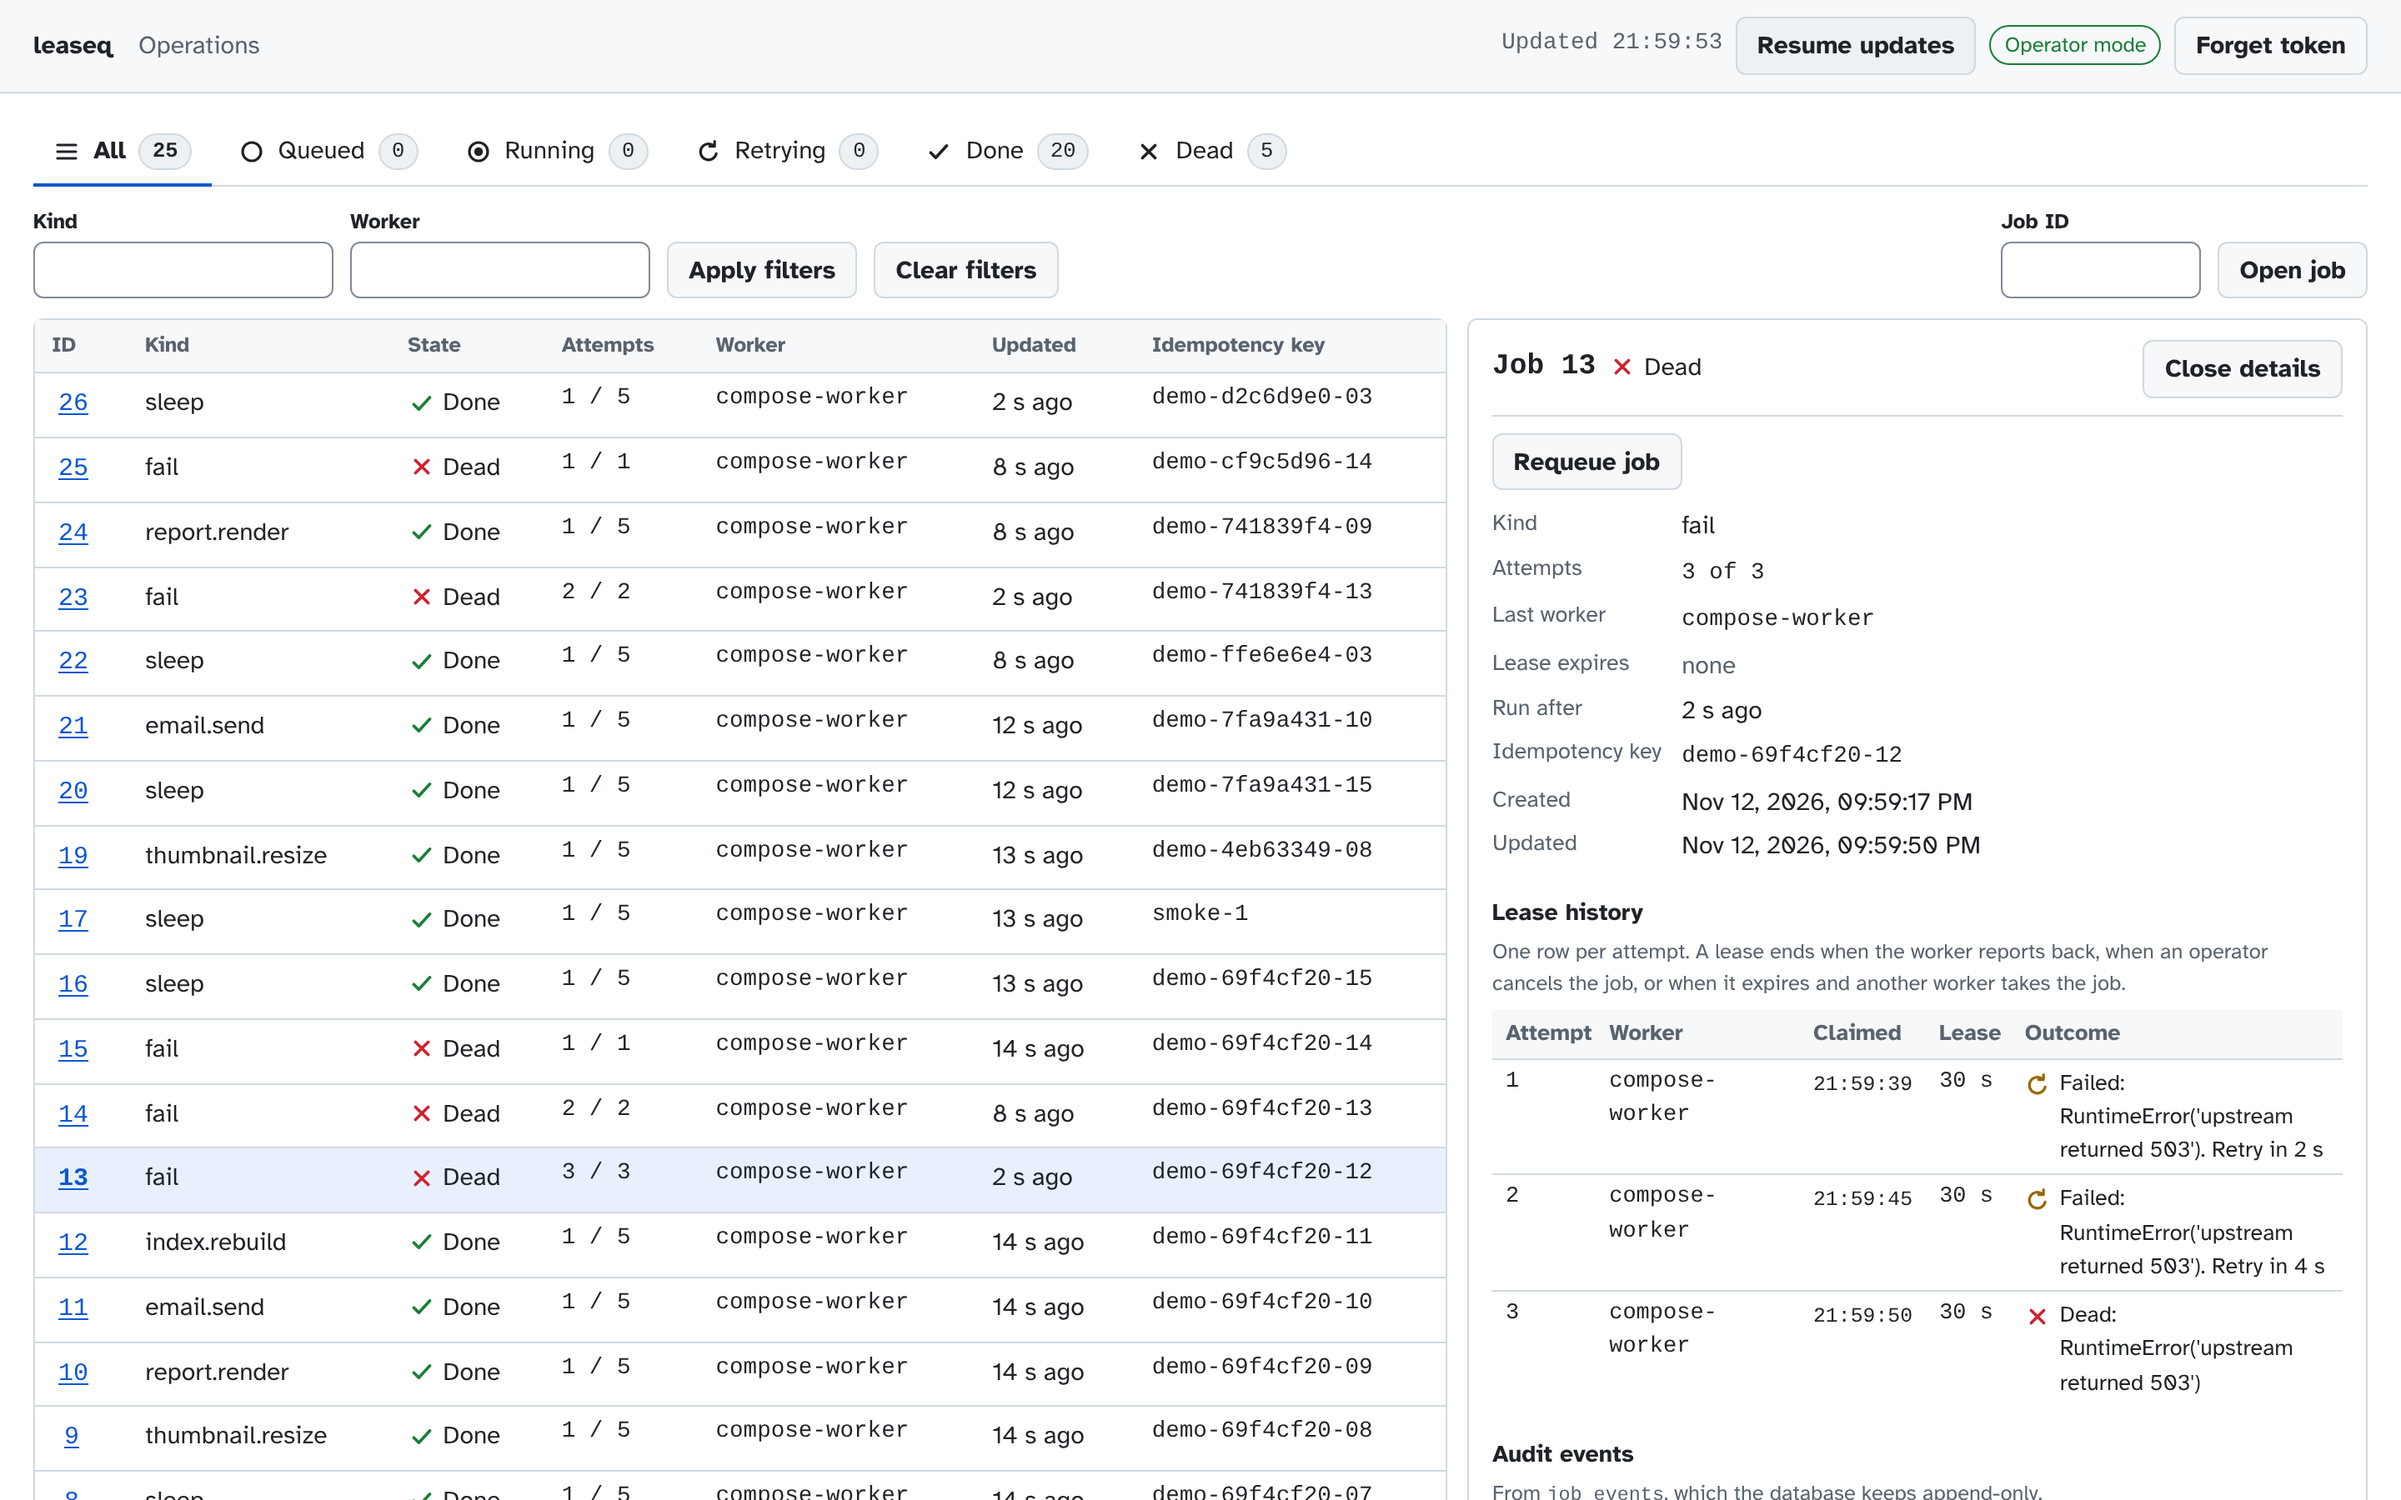
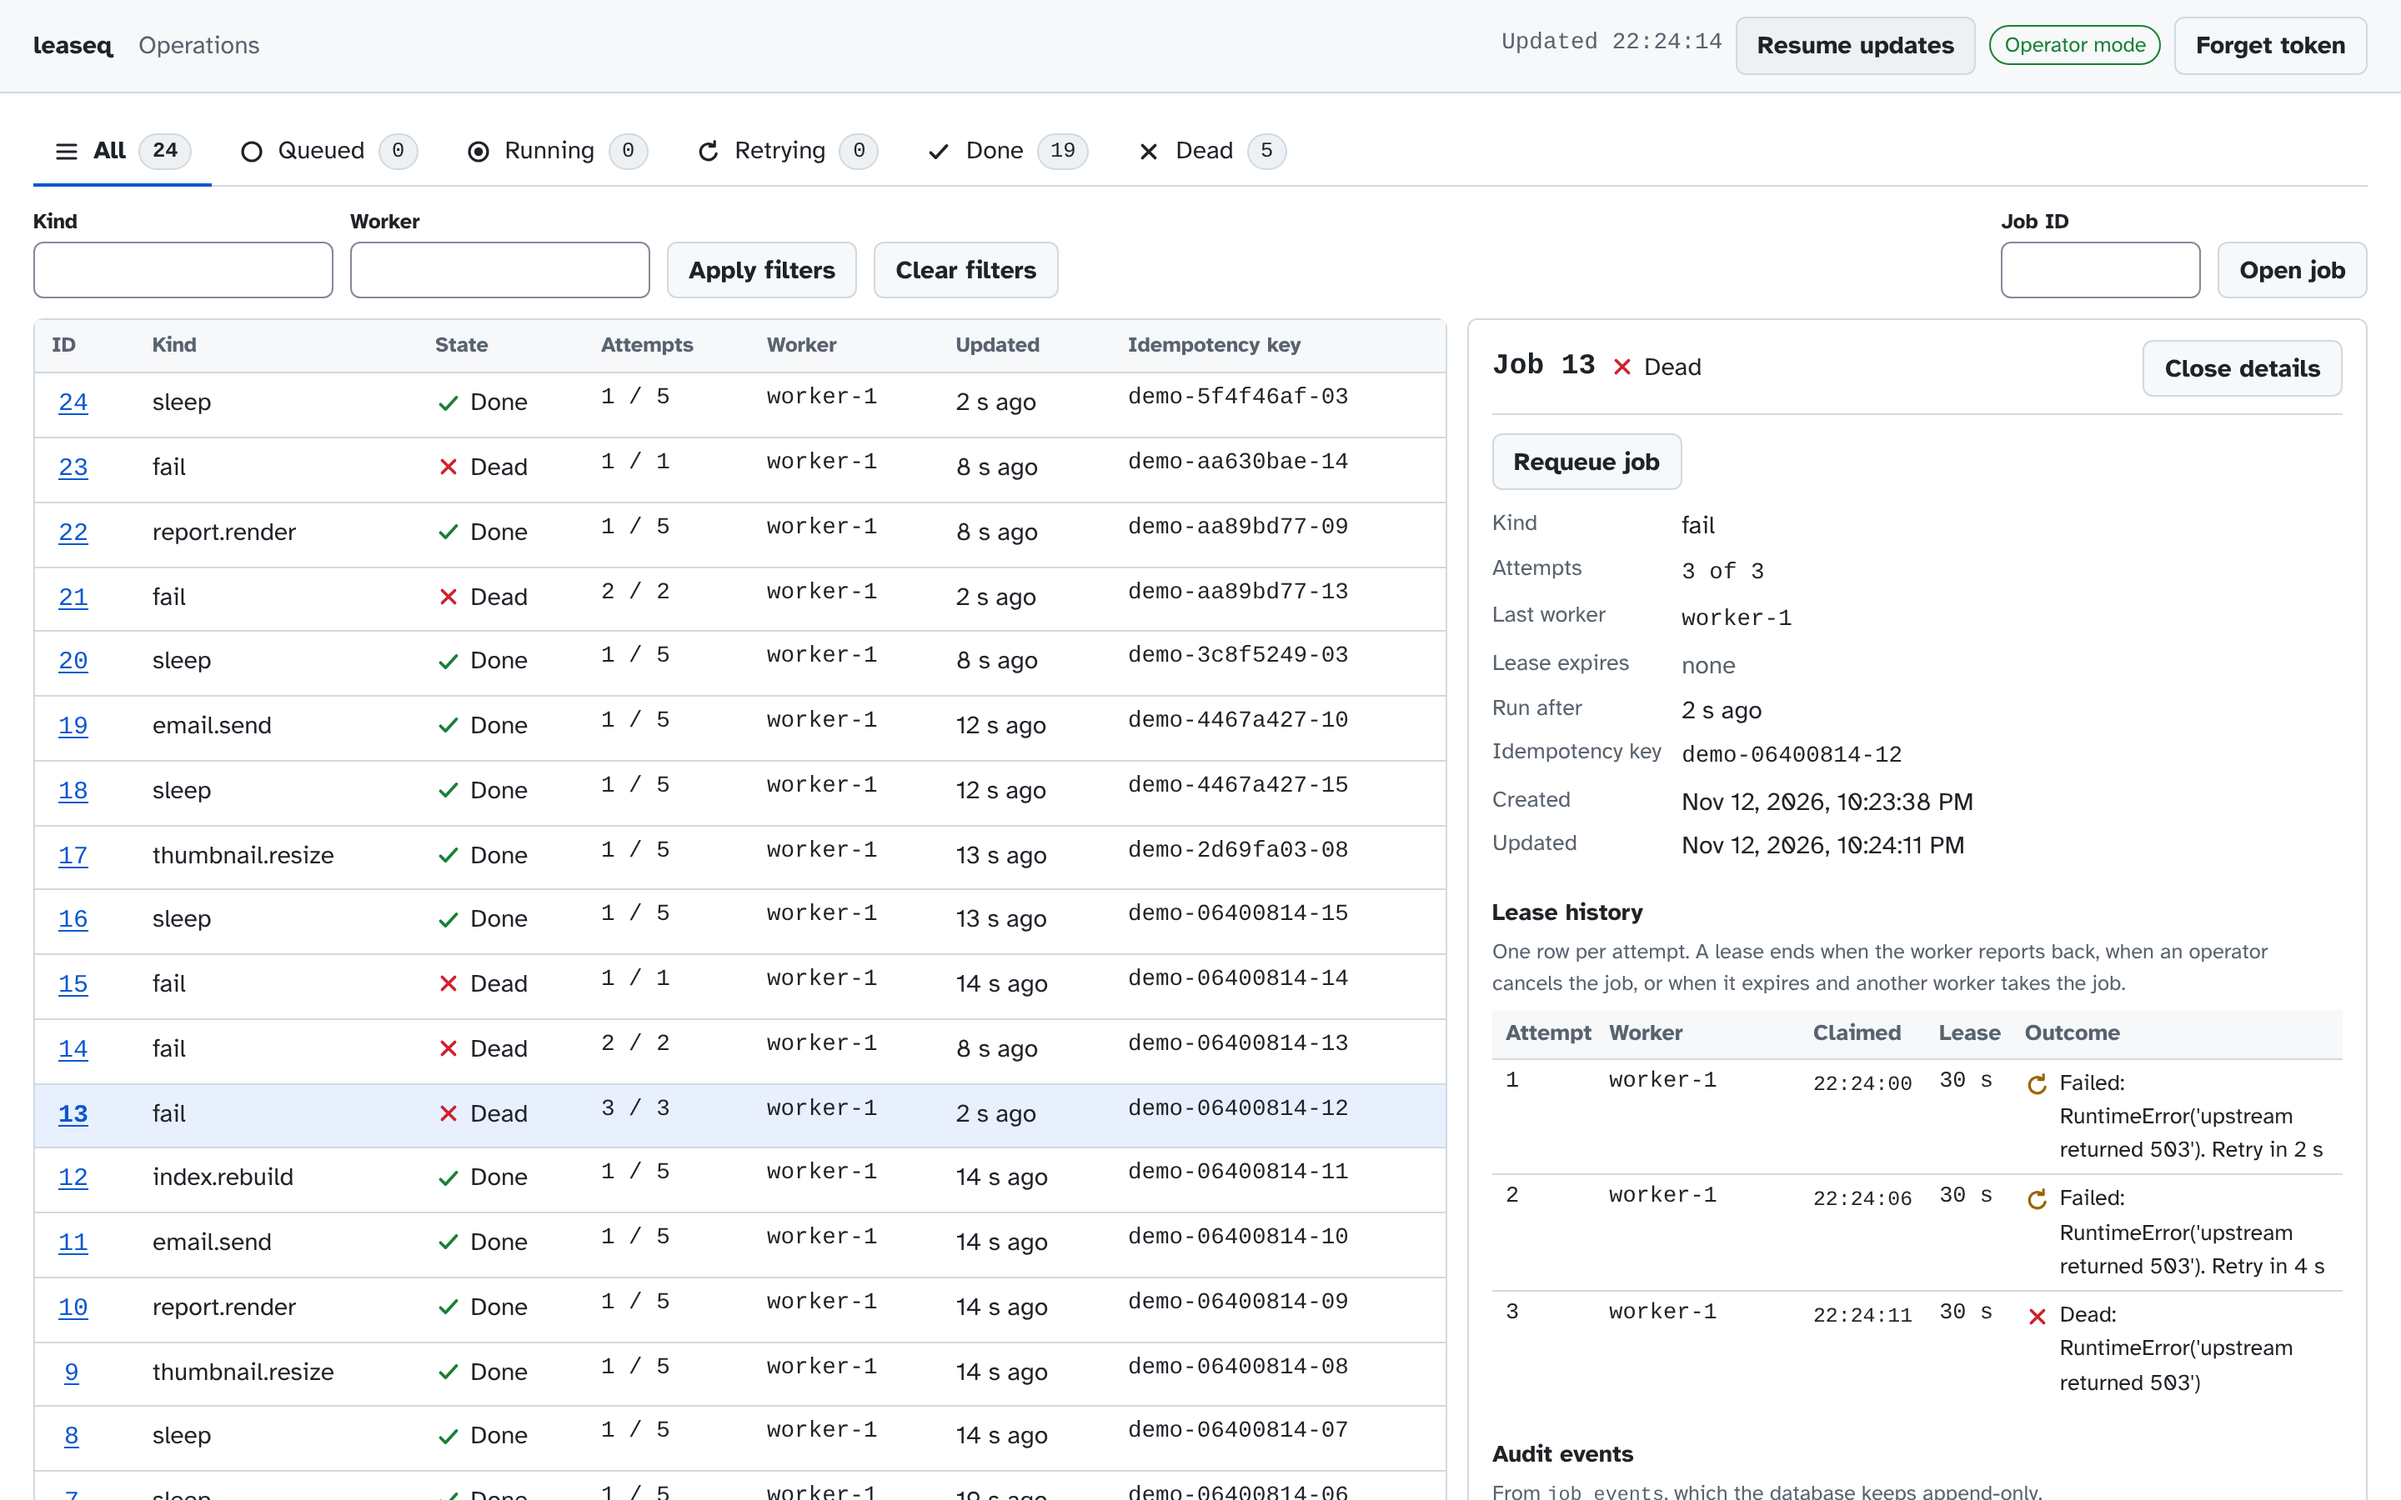
Address review: honest screenshot, segment-exact open paths, unknown counts
- Retake docs/screenshots/dashboard.png from local processes with worker
  id worker-1 and demo keys only; the caption says it is not Docker.
- security.access matches open prefixes by whole path segment, so
  /jobsadmin or /dashboardx are never opened by LEASEQ_PUBLIC_READ or the
  dashboard rule; test with five look-alike paths.
- Without a token the state tabs show an en dash, not 0, and the table is
  cleared; the footer says reads need the token unless public reads are on.
  The live browser test checks this.
- Cancel wording: a late result is refused and logged as rejected.
- README: exact line counts; demo-scale limits of the dashboard (count(*)
  every 2 s, up to 500 events per open job, 200-row table, token lost on
  reload).

Claude-Session: https://claude.ai/code/session_01SBDy3AAAGa7xAC8BzFcKKn

diff --git a/leaseq/dashboard/assets/app.js b/leaseq/dashboard/assets/app.js
@@ -202,7 +202,7 @@ function buildTabs() {
     const b = el("button", { type: "button", role: "tab", class: "tab", id: `tab-${t.id || "all"}`,
                              "aria-controls": "jobs-panel", "data-state": t.id },
                  icon(t.id || "all"), el("span", { text: t.label }),
-                 el("span", { class: "count", "data-count": t.id || "all", text: "0" }));
+                 el("span", { class: "count", "data-count": t.id || "all", text: NO_COUNT }));
     b.addEventListener("click", () => selectTab(t.id, false));
     list.append(b);
   }
@@ -220,6 +220,14 @@ function buildTabs() {
       selectTab(next.dataset.state, true);
     }
   });
+}
+
+// Shown instead of a number until the server has answered with counts
+// (for example while it is waiting for the token), so "0" is never a guess.
+const NO_COUNT = "\u2013";
+
+function clearCounts() {
+  for (const c of document.querySelectorAll("[data-count]")) c.textContent = NO_COUNT;
 }
 
 function renderTabs(counts) {
@@ -470,7 +478,7 @@ function confirmAction(kind, job, trigger) {
     $("confirm-title").textContent = `Cancel job ${job.id}?`;
     $("confirm-text").textContent = job.state === "leased"
       ? `It becomes dead now. Worker ${job.leased_by} is still running it; when it reports back ` +
-        `its lease token is refused and nothing is recorded.`
+        `its result is refused (logged as rejected).`
       : "It becomes dead and will not be run.";
     yes.textContent = "Cancel job";
     yes.className = "btn primary";
@@ -633,6 +641,9 @@ async function refresh() {
     if (r.status === 401) {
       showBanner("This server requires the API token to read jobs.", true);
       $("updated").textContent = "Token needed";
+      clearCounts();
+      $("rows").replaceChildren();
+      $("shown").textContent = "";
       return;
     }
     if (r.status !== 200) {

diff --git a/tests/e2e/readme_screenshot.js b/tests/e2e/readme_screenshot.js
@@ -20,7 +20,7 @@ const { chromium } = require("playwright");
     await page.getByRole("button", { name: "Use token" }).click();
     await page.locator("#operator-label").waitFor({ state: "visible" });
   }
-  await page.waitForFunction(() => document.querySelector('[data-count="all"]').textContent !== "0");
+  await page.waitForFunction(() => /^[1-9][0-9]*$/.test(document.querySelector('[data-count="all"]').textContent));
   if (process.env.JOB) await page.locator("#lease-rows tr").first().waitFor();
   await page.getByRole("button", { name: "Pause updates" }).click();   // freeze the frame
   await page.evaluate(() => document.activeElement.blur());

diff --git a/tests/e2e/live_flow.e2e.js b/tests/e2e/live_flow.e2e.js
@@ -53,6 +53,9 @@ async function enterTokenByKeyboard(page) {
     await page.goto(`${BASE}/dashboard/`);
     const banner = page.getByRole("alert");
     await banner.filter({ hasText: "requires the API token to read jobs" }).waitFor();
+    const noTokenCounts = await page.$$eval("[data-count]", (els) => els.map((e) => e.textContent));
+    assert.deepEqual(noTokenCounts, Array(6).fill("\u2013"));   // unknown, not "0"
+    assert.equal(await page.locator("#rows tr").count(), 0);
     report.axe["no-token"] = await axeViolations(page);
     step("reads without a token: 401, the page shows 'requires the API token'");
 

diff --git a/leaseq/dashboard/index.html b/leaseq/dashboard/index.html
@@ -111,8 +111,9 @@
 </main>
 
 <footer class="app-footer muted">
-  Read-only unless an API token is entered. The token is sent only in the
-  Authorization header and is never stored. Font: Atkinson Hyperlegible,
+  Job data needs the API token unless the server allows public reads; requeue and
+  cancel always need it. The token is sent only in the Authorization header and
+  kept in this page's memory, never stored. Font: Atkinson Hyperlegible,
   <a href="assets/OFL.txt">SIL Open Font License 1.1</a>.
   <a href="/docs">API reference</a>
 </footer>

diff --git a/tests/e2e/dashboard.e2e.js b/tests/e2e/dashboard.e2e.js
@@ -41,7 +41,7 @@ async function newPage(browser, opts = {}) {
 
 async function openDashboard(page, query = "") {
   await page.goto(`${BASE}/dashboard/${query}`);
-  await page.waitForFunction(() => document.querySelector('[data-count="all"]').textContent !== "0");
+  await page.waitForFunction(() => /^[1-9][0-9]*$/.test(document.querySelector('[data-count="all"]').textContent));
 }
 
 (async () => {

diff --git a/leaseq/security.py b/leaseq/security.py
@@ -59,16 +59,22 @@ def _bearer(headers: dict) -> str | None:
 # Paths that hold no job data and are served without a token. Everything else
 # is denied by default, so a route added later is protected unless listed here.
 OPEN_PATHS = {"/", "/healthz", "/dashboard", "/docs", "/docs/oauth2-redirect", "/openapi.json"}
-OPEN_PREFIXES = ("/dashboard/",)
+OPEN_PREFIXES = ("/dashboard",)
 # GET endpoints that LEASEQ_PUBLIC_READ=1 opens. /auth/check is not among them.
 PUBLIC_READ_PREFIXES = ("/stats", "/jobs")
 
 
+def _under(path: str, prefixes: tuple[str, ...]) -> bool:
+    """True for the prefix itself or a path below it: '/jobs' and '/jobs/1',
+    but not '/jobsadmin'."""
+    return any(path == p or path.startswith(p + "/") for p in prefixes)
+
+
 def access(method: str, path: str, public_read: bool) -> str:
     """-> 'open' or 'token' for a request."""
-    if path in OPEN_PATHS or path.startswith(OPEN_PREFIXES):
+    if path in OPEN_PATHS or _under(path, OPEN_PREFIXES):
         return "open"
-    if public_read and method in ("GET", "HEAD") and path.startswith(PUBLIC_READ_PREFIXES):
+    if public_read and method in ("GET", "HEAD") and _under(path, PUBLIC_READ_PREFIXES):
         return "open"
     return "token"
 
@@ -164,7 +170,7 @@ class SecurityHeaders:
     async def __call__(self, scope, receive, send):
         if scope["type"] != "http":
             return await self.app(scope, receive, send)
-        dashboard = scope["path"] == "/dashboard/" or scope["path"].startswith("/dashboard/")
+        dashboard = _under(scope["path"], ("/dashboard",))
 
         async def send_with_headers(message):
             if message["type"] == "http.response.start":

diff --git a/tests/test_security.py b/tests/test_security.py
@@ -94,6 +94,19 @@ def test_routes_are_protected_by_default(make_client):
     assert client.get("/not-a-route", headers=AUTH).status_code == 404
 
 
+@pytest.mark.parametrize("path", ["/jobsadmin", "/jobs.json", "/statsx", "/dashboardx",
+                                  "/dashboard-admin/x"])
+def test_open_prefixes_match_whole_path_segments(make_client, conn, path):
+    """Public read opens /jobs and /jobs/..., not a look-alike such as /jobsadmin."""
+    seed(conn)
+    client = make_client(public_read=True, auth=False)
+    assert client.get(path).status_code == 401, path
+    assert security.access("GET", path, True) == "token"
+    assert security.access("GET", "/jobs", True) == "open"
+    assert security.access("GET", "/jobs/1/events", True) == "open"
+    assert security.access("GET", "/dashboard", False) == "open"
+
+
 def test_unauthenticated_body_is_not_parsed(make_client, conn):
     """Auth runs before validation: no token means 401 even for a malformed body."""
     client = make_client(auth=False)

diff --git a/README.md b/README.md
@@ -8,15 +8,17 @@ work, and report the result with the lease token they were given. It exists to
 answer one question with evidence instead of a claim: if worker processes are
 killed at random while they hold jobs, is any job lost, and is any job's result
 recorded twice? The repository contains the queue, its HTTP API with bearer-token
-authentication, an operations dashboard served by the API (about 1,000 lines of
-Python, 83 of SQL and 980 of HTML/JavaScript/CSS in total), a fault-injection
+authentication, an operations dashboard served by the API (1,024 lines of
+Python, 83 of SQL, and 996 of HTML/JavaScript/CSS written for the dashboard,
+not counting the shared `ui.css` base stylesheet), a fault-injection
 test that kills workers with SIGKILL and then checks the database, and the
 measured results below.
 
 ![The leaseq dashboard: job table with state tabs, and the details of a job that failed twice, was retried with backoff and then went dead](docs/screenshots/dashboard.png)
 
-The screenshot shows real jobs from `python -m leaseq.demo` processed by one
-worker, taken with `tests/e2e/readme_screenshot.js`.
+The screenshot was taken from local processes, not Docker: one `uvicorn` API,
+one worker (`worker-1`) and `python -m leaseq.demo` against a local PostgreSQL,
+captured with `tests/e2e/readme_screenshot.js` after entering the token.
 
 ## Quick start
 
@@ -83,7 +85,7 @@ well. A missing or wrong token gets `401` with a JSON body and
 | `GET /jobs?state=&kind=&worker=&before_id=&limit=` | Newest first, at most 200 per page (default 50), without payloads; `next_before_id` pages back. Also returns counts, including `retrying` (queued jobs already attempted). |
 | `GET /jobs/{id}/events?after_id=&limit=` | The job's audit rows, oldest first, at most 500 per page. |
 | `POST /jobs/{id}/requeue` `{extra_attempts}` | Dead job back to `queued` with more attempts (default 3). `attempts` is kept; `max_attempts` is raised. 409 if the job is not dead. |
-| `POST /jobs/{id}/cancel` `{reason}` | Queued or leased job to `dead` and its lease token cleared, so a worker still running it gets 409 and records nothing. 409 otherwise. |
+| `POST /jobs/{id}/cancel` `{reason}` | Queued or leased job to `dead` and its lease token cleared, so a worker still running it gets 409: its result is refused (logged as `rejected`) and no effect is written. 409 otherwise. |
 | `GET /auth/check` | 200 if the token is right, 401 if not. |
 | `POST /demo/jobs` | Enqueues the 16 sample jobs that `python -m leaseq.demo` sends. |
 
@@ -325,8 +327,13 @@ repository, recommended in real use: adding the constraint as a second guard.
   next claim notices the expired lease; there is no background sweeper.
 - Benchmarks are from a 2-core shared container with client, API and database
   competing for the same cores.
-- The dashboard shows at most the newest 200 jobs per filter; older jobs are
-  reached with the filters or "Open job" by id.
+- The dashboard is built for demo-scale queues. Every 2 seconds it runs a
+  `count(*)` over all jobs and, with a job open, fetches up to 500 of that
+  job's events; on a large table those queries would need to be cheaper (for
+  example a maintained counter). The job table shows at most the newest 200
+  jobs per filter; older jobs are reached with the filters or "Open job" by id.
+  The token is kept in page memory only, so reloading the page asks for it
+  again.
 
 ## How this was built
 
